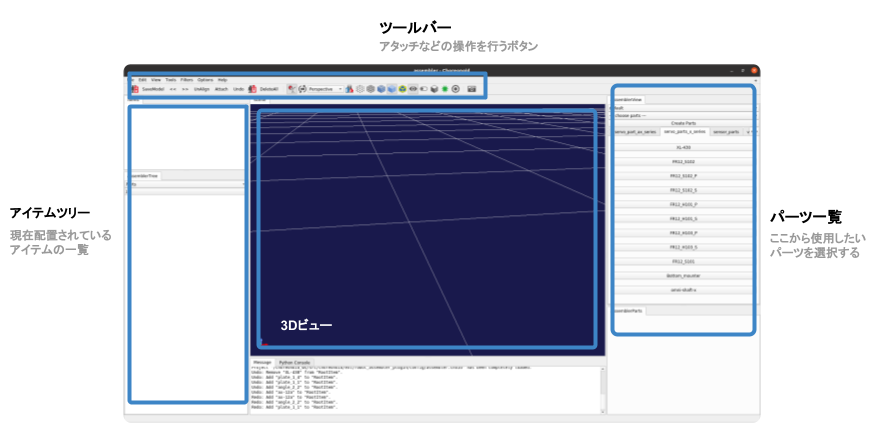
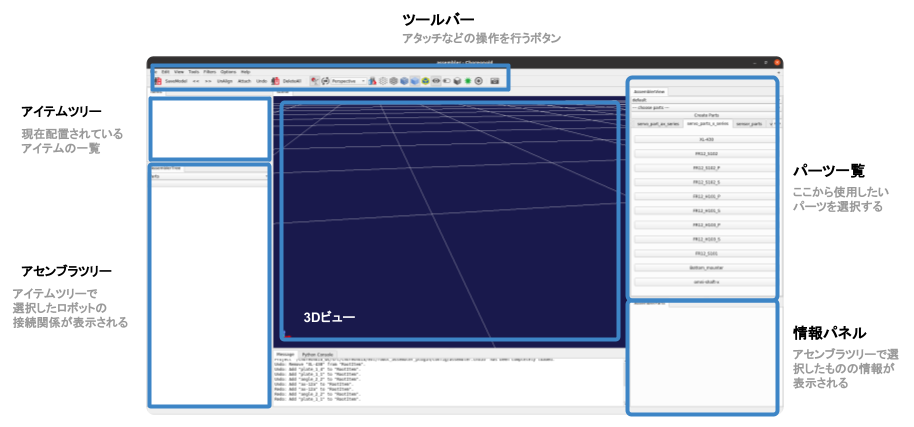
add doc

Changed region(s): [[0.0, 0.0304, 0.9863, 0.9742], [0.4932, 0.7002, 0.524, 0.7307], [0.4932, 0.6393, 0.524, 0.6698]]

diff --git a/robot_assembler.md b/robot_assembler.md
@@ -1,10 +1,12 @@
 # Robot Assembler
 
 ## 基本操作と画面構成
+
 ### 基本操作
 - __視点の回転__ 左ドラッグ
-- __平行移動__ ホイールドラッグ
+- __平行移動__ ホイールドラッグ もしくは スペースキー + 左ドラッグ
 - __拡大と縮小__ ホイールスクロール
+
 ### 画面構成
 ![画面構成](
 image/screen_structure.png)
@@ -84,6 +86,21 @@ Alignの操作を取り消したいときは、一度アタッチしてから、
 
 ![Delete parts](image/delete_parts.png)
 
+
+### パーツのリンク名や色を変更する
+Robot assemblerでパーツのリンク名を変更することで、シミュレーションで使用するリンク名をわかりやすくすることができます。また、パーツの色も変更することができます。
+
+アイテムツリーからロボットを選択し、アセンブラツリーで```Link```を選択し、名称や色を変えたいパーツを選択します。
+情報パネルで名称や色の値を変えてください。色は```[red, green, blue]```の順番で入力し、0から1の値で指定してください。
+
+![Edit parameters](image/edit_params1.png)
+
+### アクチュエーターの角度を変更する
+アイテムツリーからロボットを選択し、アセンブラツリーで```Actuator```を選択し、角度を変更したい場所を選択します。
+情報パネルの```current-angle```に値をラジアンで入力しEnterキーを押すことで角度が変わります。
+また、```initial-angle```を変更することでシミュレーションで使用する時の初期角度を変更できます。
+
+![Edit parameters](image/edit_params2.png)
 
 ### 作成したモデルを保存する
 本プラグインで作成したモデルは「.roboasm」という拡張子のファイルで管理されます。
